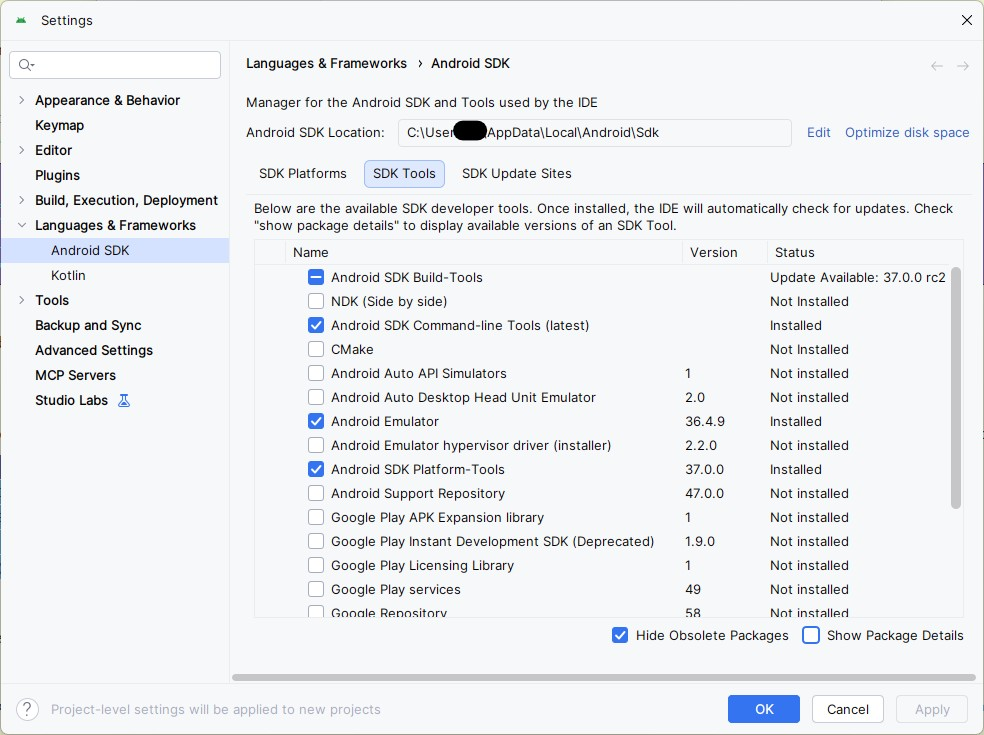
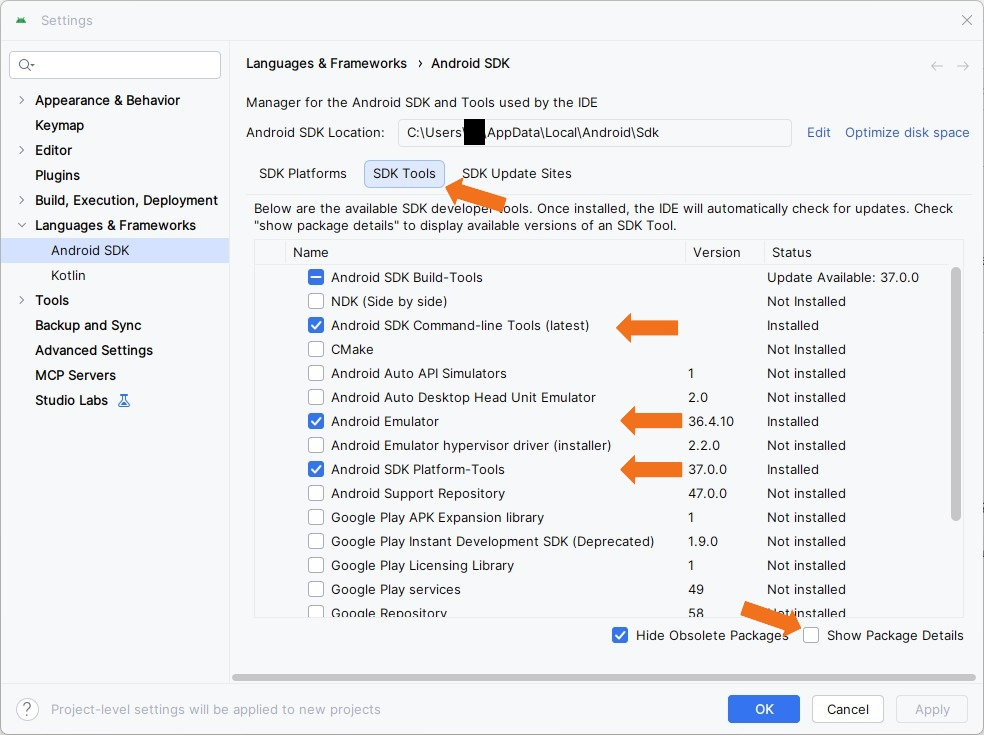
Update sections with updated images

diff --git a/frontend/mobile/docs/DEVELOPMENT_ANDROID.md b/frontend/mobile/docs/DEVELOPMENT_ANDROID.md
@@ -141,11 +141,13 @@ In the **SDK Manager**, go to the **SDK Platforms** tab and install the required
 In the **SDK Manager**, go to the **SDK Tools** tab and install the required tools and build components:
 
 - Android SDK Build-Tools 36.0.0
+
+![SDK Build-Tools](as-sdk-tools-build-tools.jpg)
+
 - Android SDK Command-line Tools (latest) 20.0
 - Android SDK Platform-Tools 37.0.0
 - Android Emulator 36.4.10
 
-![SDK Build-Tools](as-sdk-tools-build-tools.jpg)
 ![SDK Tools - Other Components](as-sdk-tools-others.jpg)
 
 ##### Set environment variables
@@ -166,16 +168,20 @@ From the Android Studio welcome screen, click on **More Actions** and select **V
 
 ![Welcome to Android Studio - Virtual Device Manager](as-welcome-vdm.jpg)
 
-![Virtual Device Manager](as-vdm.jpg)
+![Empty Virtual Device Manager](as-vdm-devices-empty.jpg)
 
 1. Click **Create Virtual Device** [+]
 2. Select a device definition (e.g., Pixel 9, Pixel 7)
    ![Virtual Device Type](as-vdm-device-type.png)
 3. Click **Next**
 4. Set the name to **android16** and select a system image (Android 16.0 / **API 36.0**)
-   ![Virtual Device configuration](as-vdm-device-config.png)
-    - Download the system image if not already installed
+   ![Virtual Device configuration](as-vdm-device-config.jpg)
+    - Download the system image if not already installed. It will take a few minutes to download.
 5. Click **Finish**
+6. Start the emulator **android16**. It will take a few minutes to start up.
+   ![Virtual Device Manager](as-vdm.jpg) 
+   ![Emulator](emulator_new.jpg)
+7. Close the emulator
 
 To verify the emulator is available:
 
@@ -295,6 +301,7 @@ The command will:
 
 **Note:** The first build may take several minutes. Subsequent builds will be faster due to caching.
 
+![Emulator](mobile-app.jpg)
 
 ## Run in Browser (Development)
 
